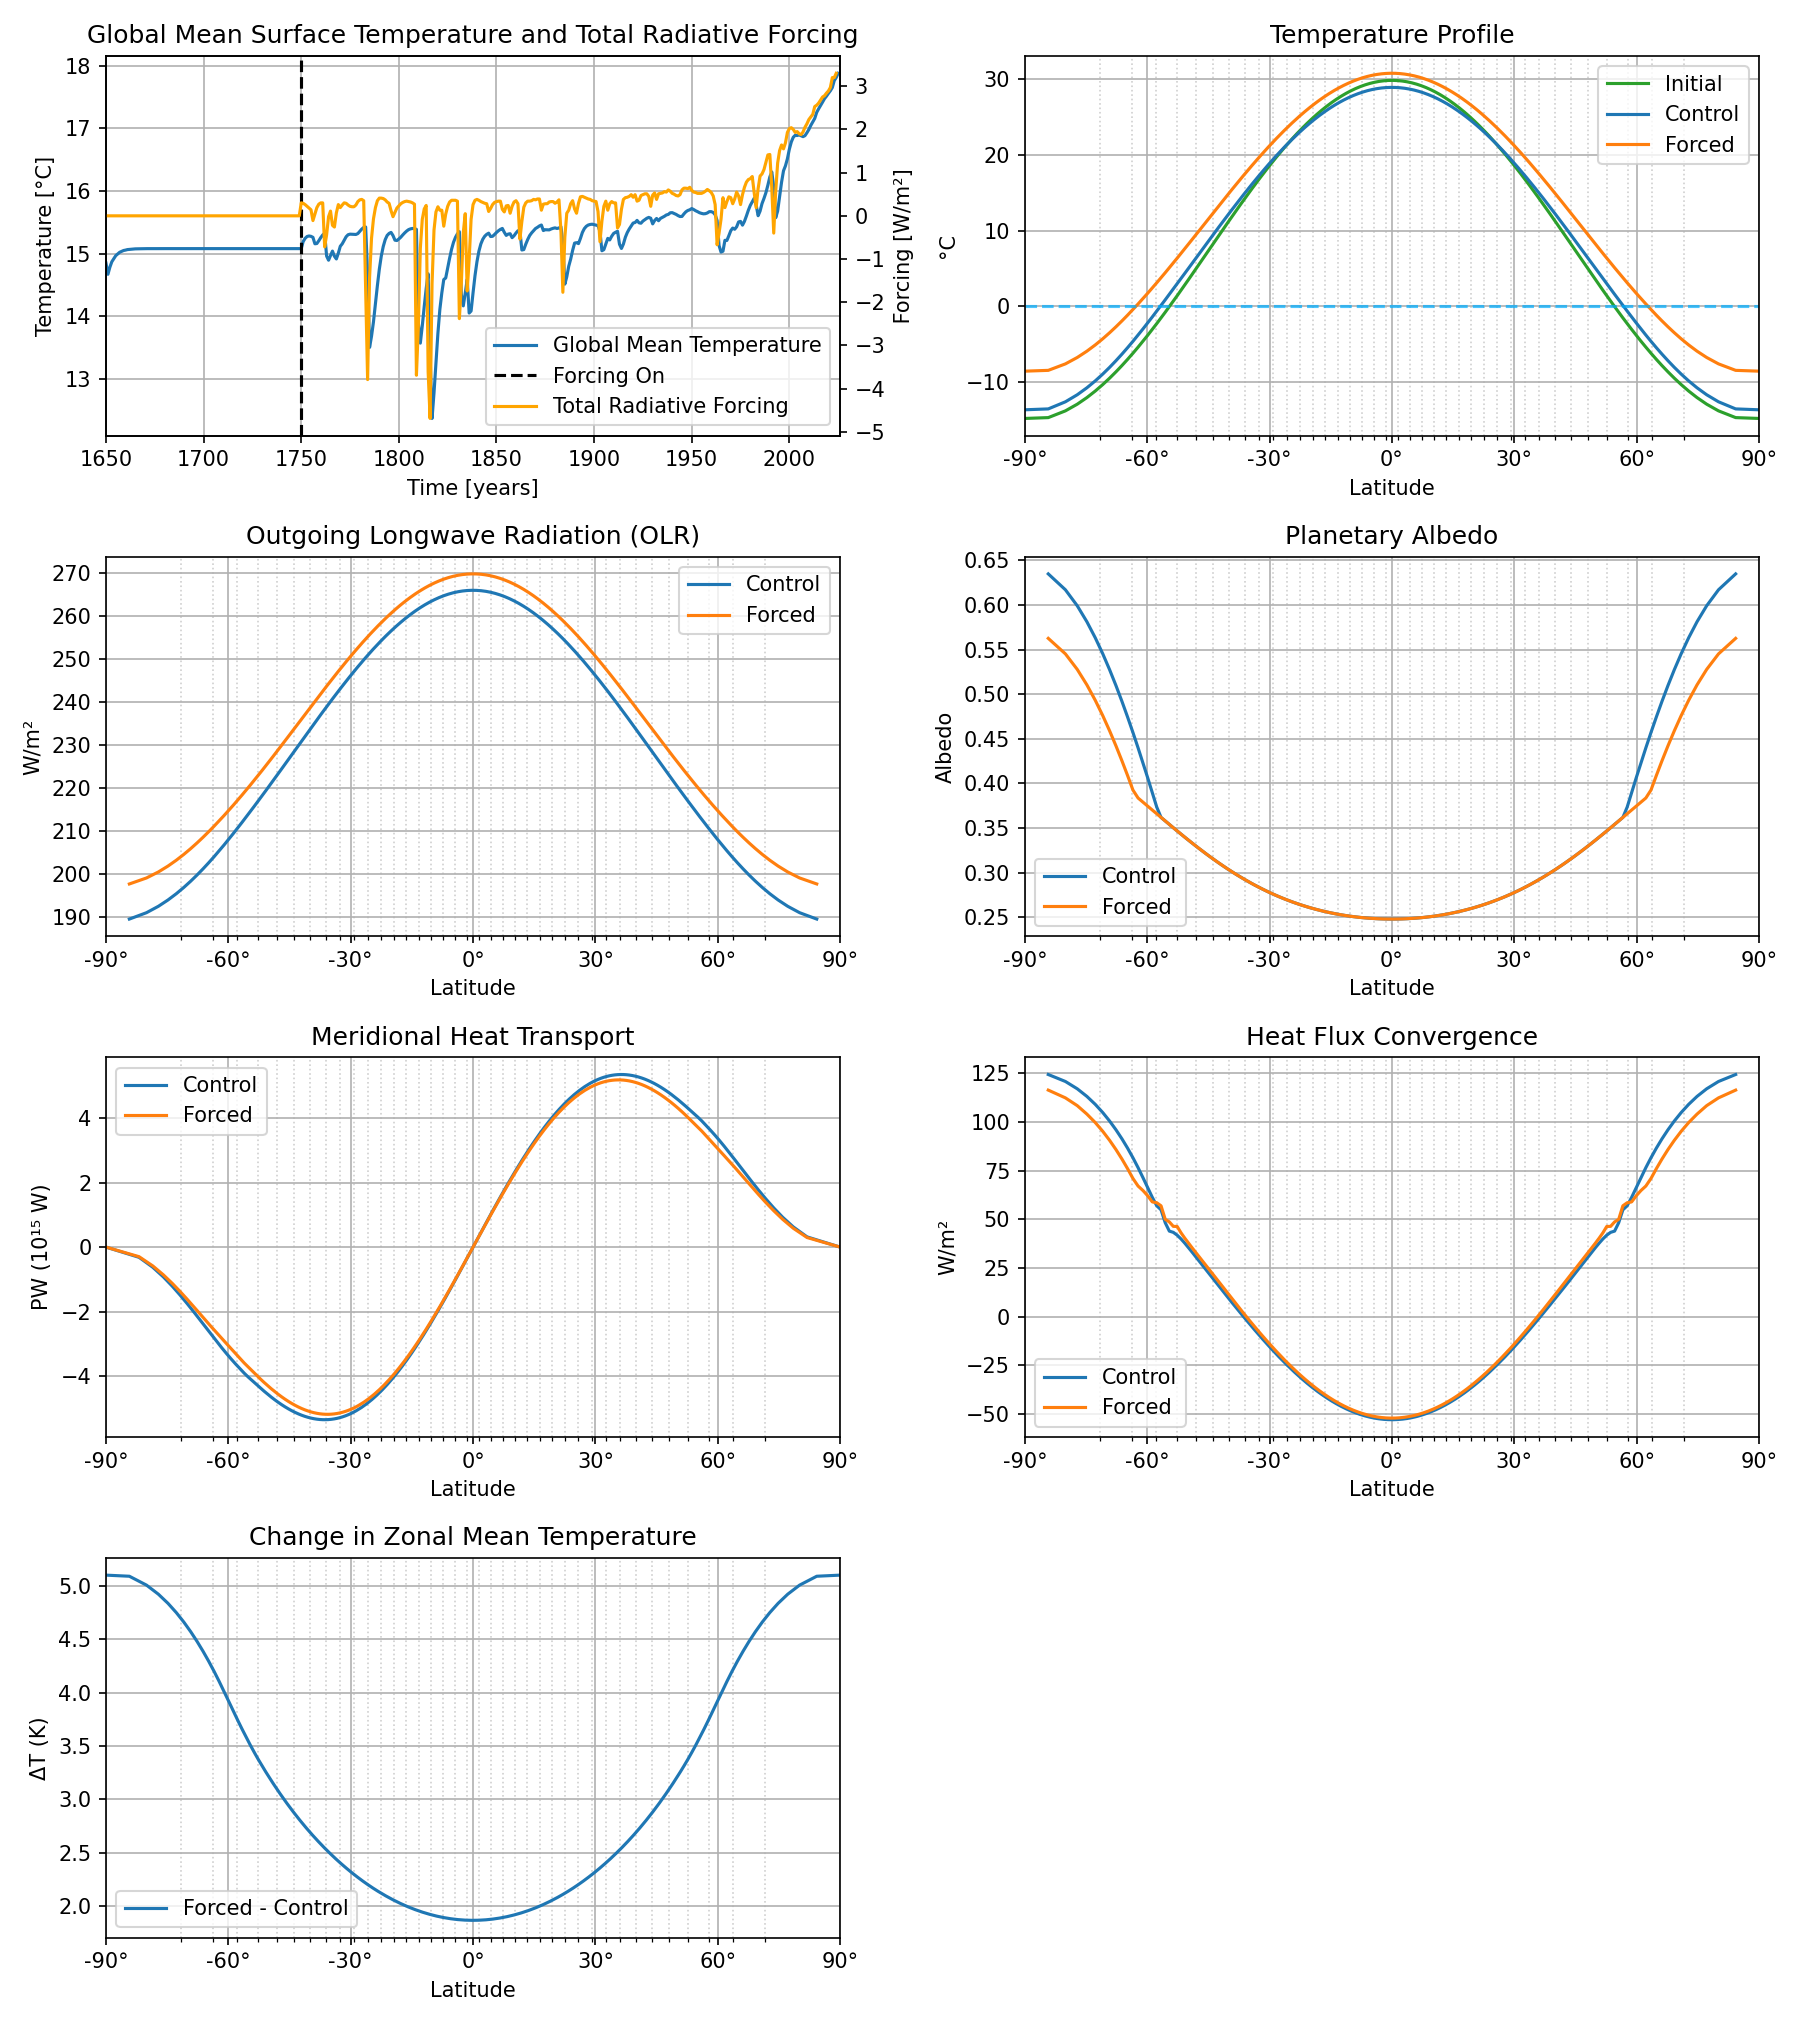
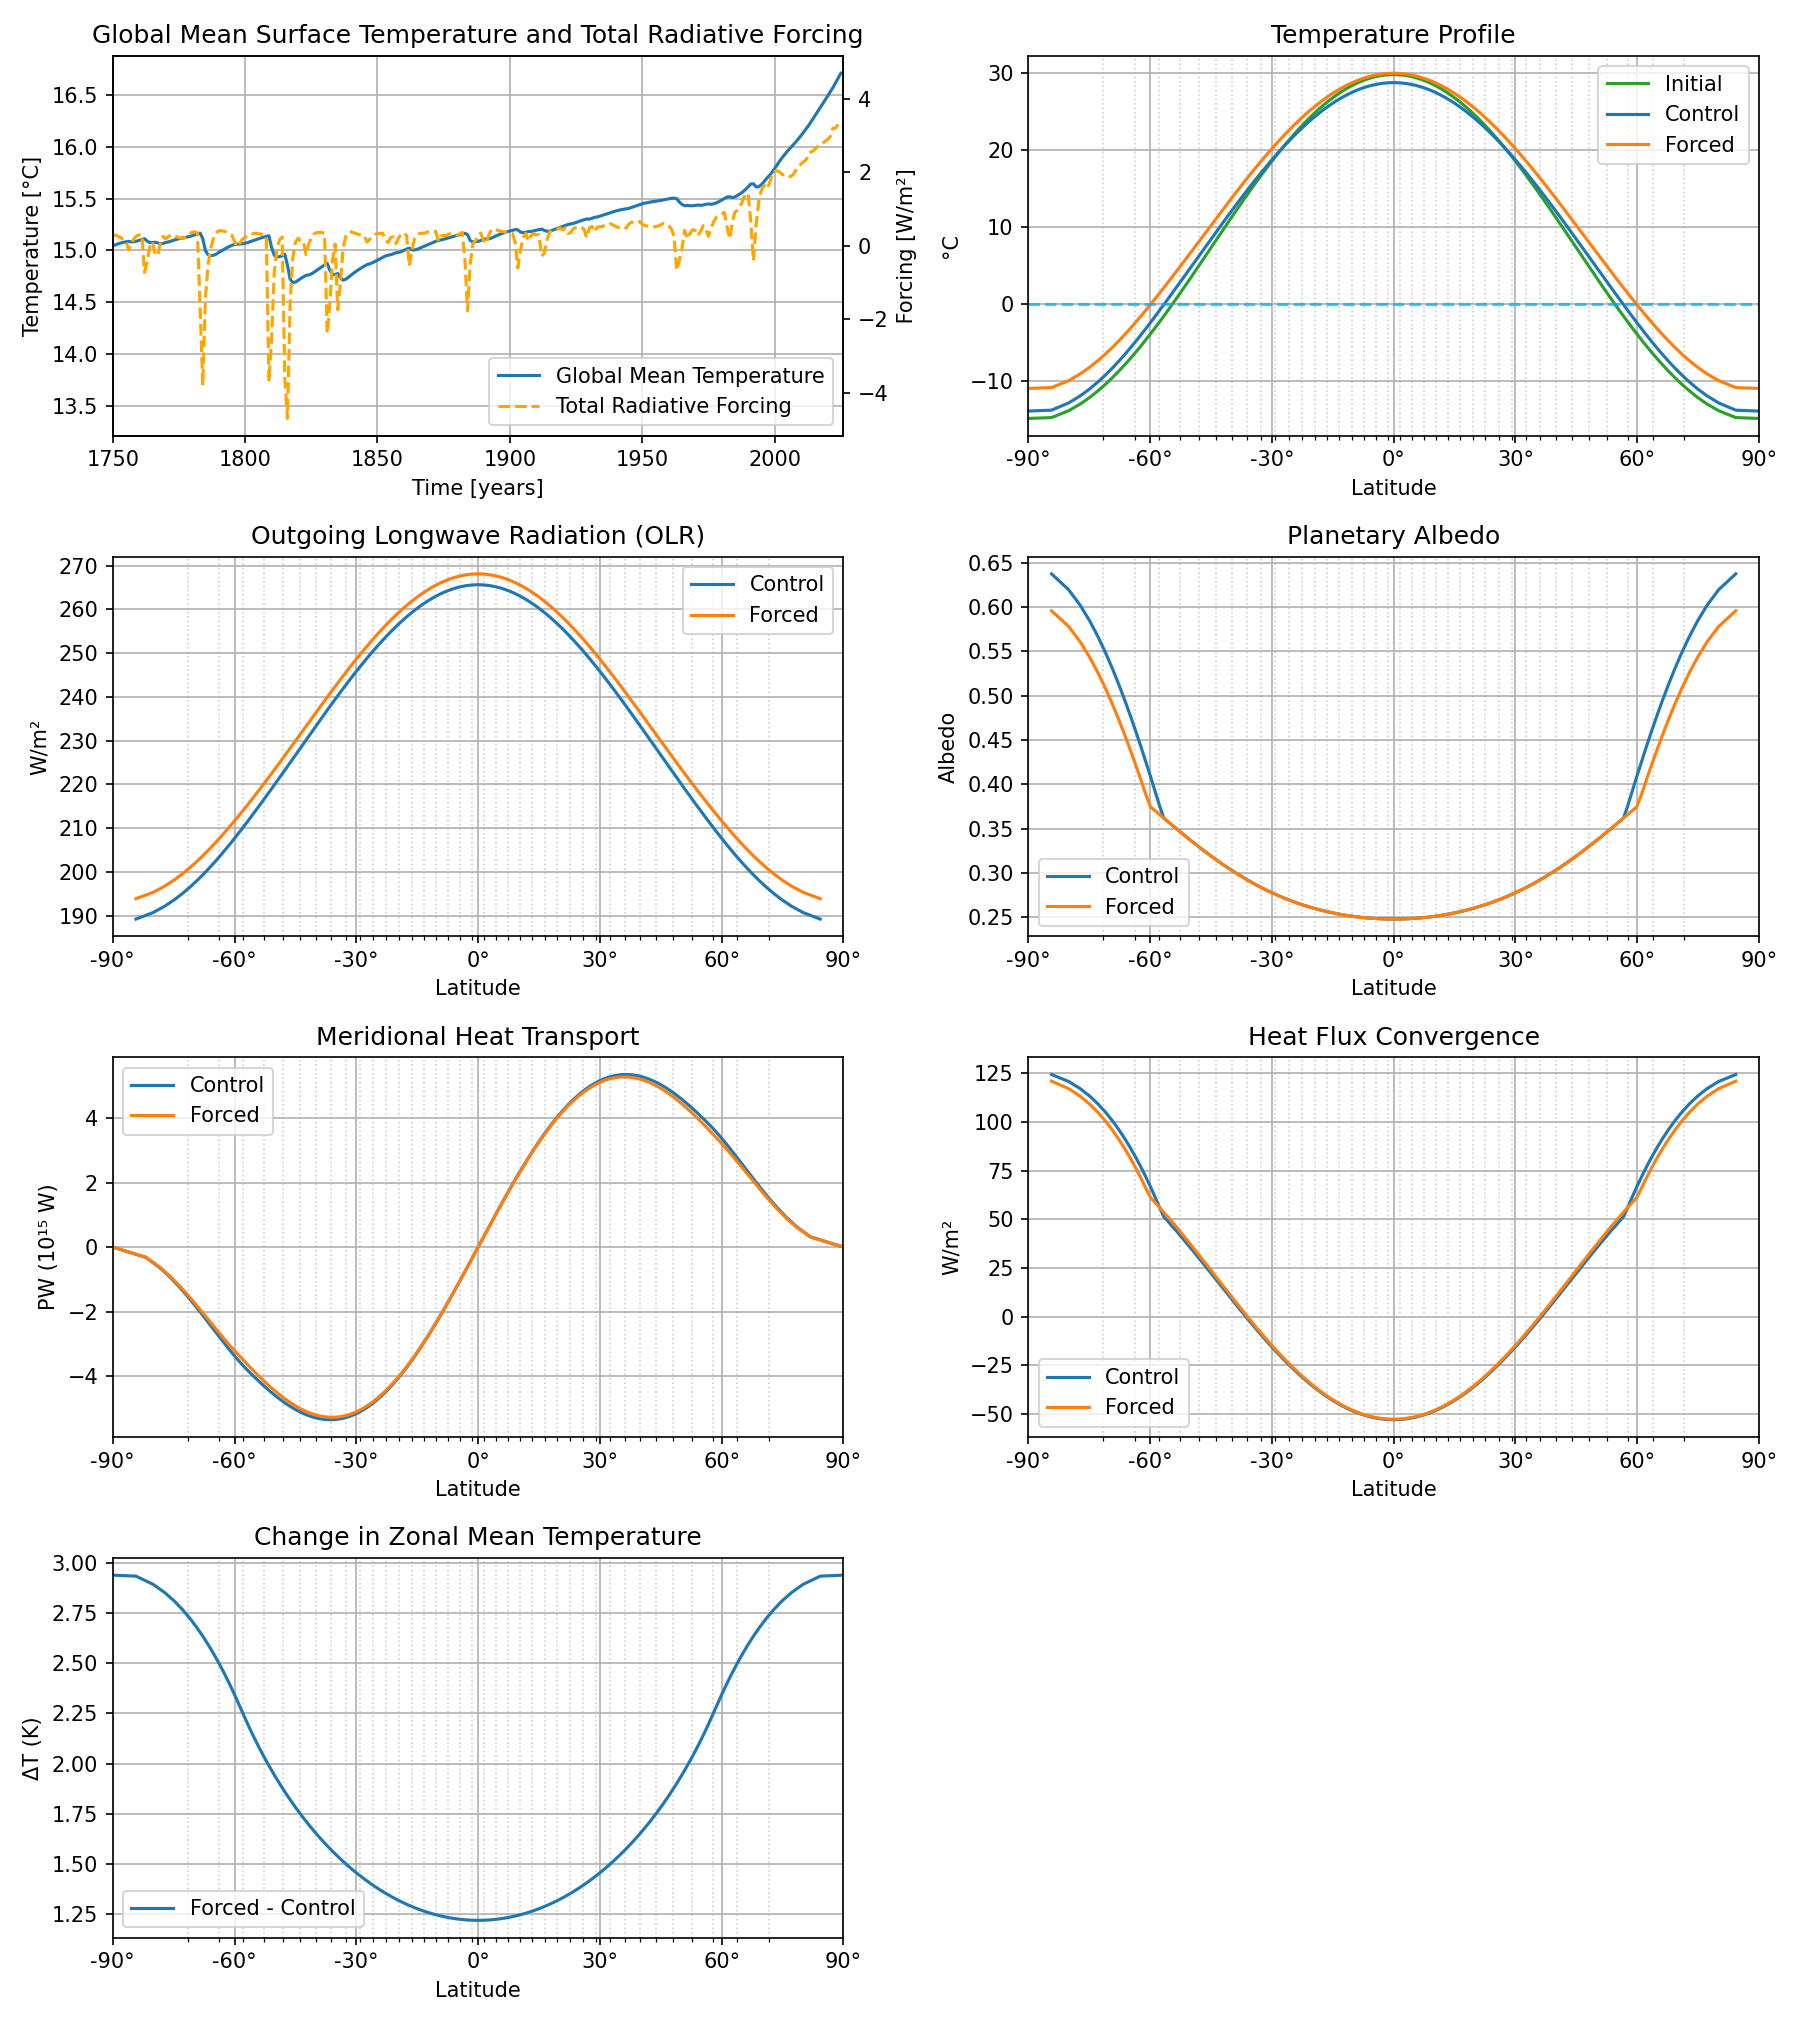
forbedringer på VarForc tidsserie plot

diff --git a/Programmappen/outputs.py b/Programmappen/outputs.py
@@ -499,16 +499,19 @@ class VariableForcingOutput(TimeSeriesOutput):
         self.lat = np.degrees(np.arcsin(self.x))
         self.x_ext = np.r_[-1, self.x, 1] # Extended grid including poles
         self.lat_ext = np.r_[-90, self.lat, 90]
-        self.F_history = model.F_History
-        self.start_year = model.start_year - model.config["ctrl_years"]
+        self.F_history = np.array(model.F_History[int(self.ctrl_years/model.config["dt_years"]):]) if model.config["ctrl_years"] > 0 else model.F_History
+        self.start_year = model.start_year
+        self.ctrl_years = model.config["ctrl_years"]
 
     def panel(self, ax):
         ax2 = ax.twinx()
-        ax.plot(np.arange(len(self.Tg_series)) * self.dt + self.start_year, self.Tg_series, label='Global Mean Temperature')
-        ax.set_xlim(self.start_year, self.start_year + len(self.Tg_series) * self.dt)
-        ax.set_xlabel("Time [years]"); ax.set_ylabel("Temperature [°C]"); ax.grid(True); ax2.set_ylabel(" Forcing [W/m²] ")
-        ax.axvline(self.ctrl_years + self.start_year, color='k', linestyle='--', label='Forcing On')
-        ax2.plot(np.arange(len(self.F_history)) * self.dt + self.start_year, self.F_history, label='Total Radiative Forcing', color='orange')
+        T_series = np.array(self.Tg_series[int(self.ctrl_years/self.dt):]) if self.ctrl_years > 0 else np.array(self.Tg_series)
+        ax.plot(np.arange(len(T_series)) * self.dt + self.start_year, T_series, label='Global Mean Temperature')
+        ax.set_xlim(self.start_year, self.start_year + len(T_series) * self.dt)
+        ax.set_ylim(np.max(np.abs(T_series-T_series[0])) * -1.1 + T_series[0], np.max(np.abs(T_series-T_series[0]))* 1.1 + T_series[0])
+        ax.set_xlabel("Time [years]"); ax.set_ylabel("Temperature [°C]"); ax.grid(True)
+        ax2.set_ylabel(" Forcing [W/m²] "); ax2.set_ylim(np.max(np.abs(self.F_history)) * -1.1, np.max(np.abs(self.F_history)) * 1.1)
+        ax2.plot(np.arange(len(self.F_history)) * self.dt + self.start_year, self.F_history, label='Total Radiative Forcing', color='orange',linestyle='--')
         handles,labels = ax.get_legend_handles_labels(); handles2, labels2 = ax2.get_legend_handles_labels()
         ax.set_title("Global Mean Surface Temperature and Total Radiative Forcing")
         ax.legend(handles + handles2, labels + labels2, loc='lower right')
